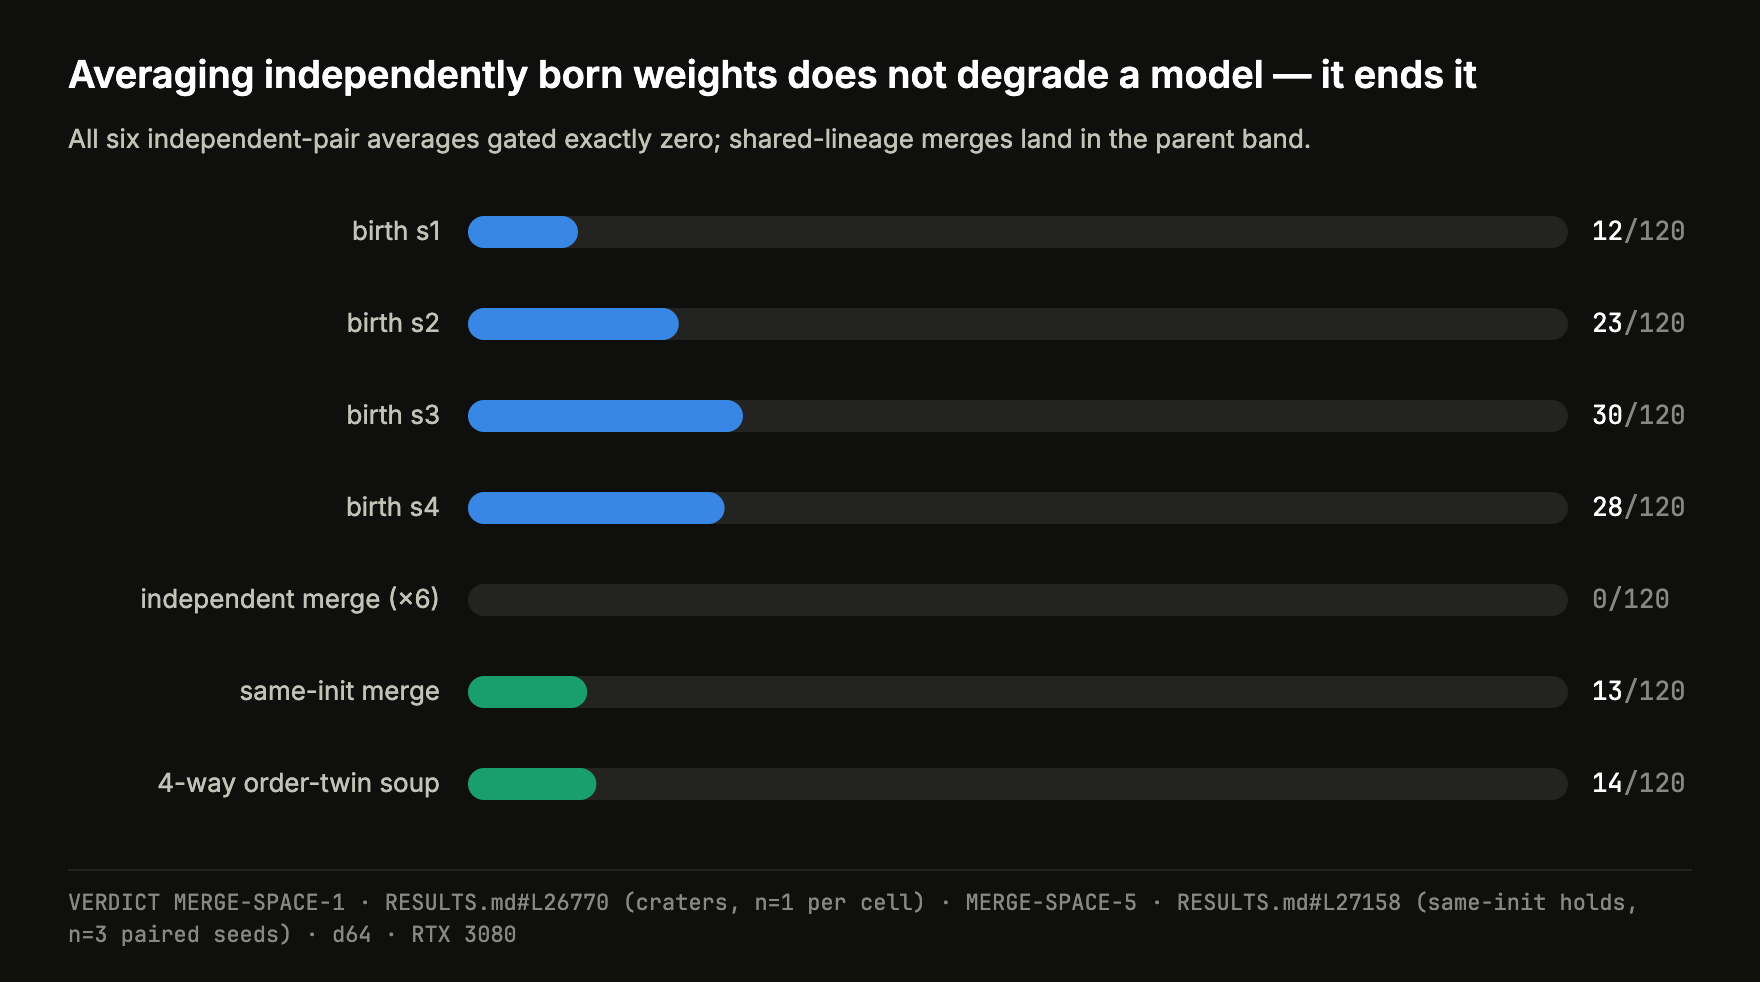
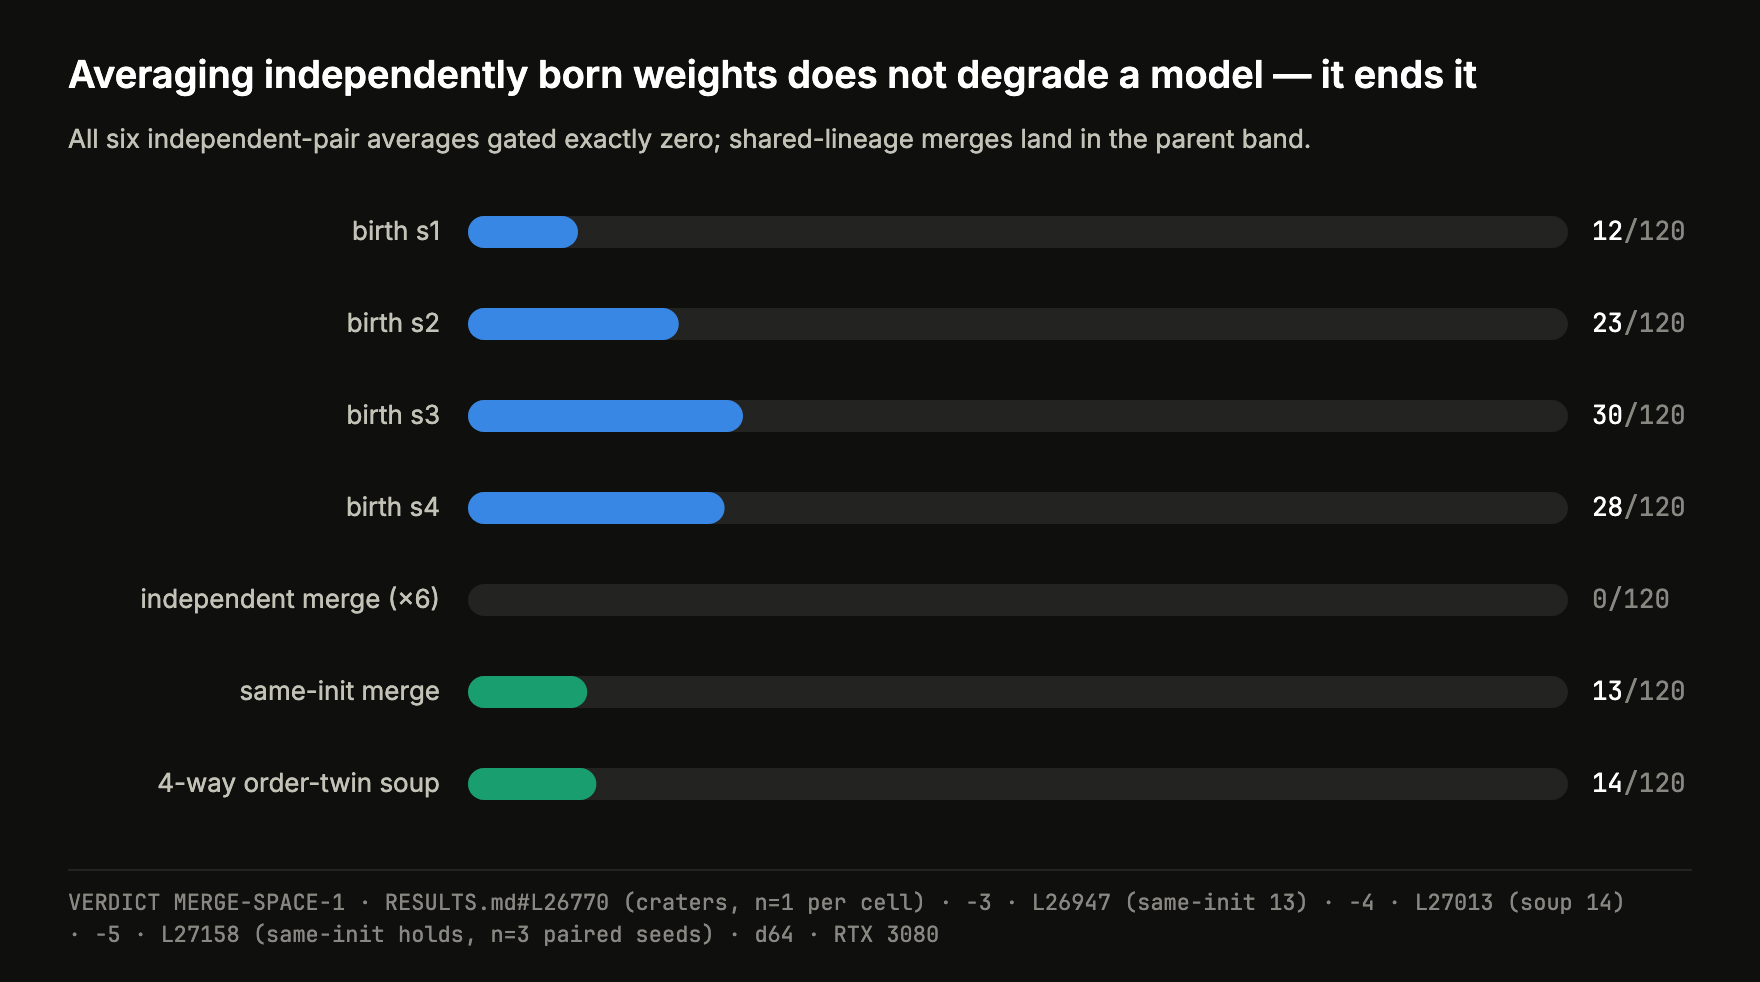
figures: fences carry index ids, the merge_space fence names MERGE-SPACE-3 and -4, the routing_crest fence states its rounding; two figures re-rendered, no value changes (rehabilitation 2B, commit 2)
Every figure in docs/figures.json gains fence_ids, the results-index
ids of the entries its fence cites; tests/test_docs_integrity.py now
reads fences as ledger links (each cited line must be the heading of
a listed id, each id must exist) so a ledger shift or a wrong citation
in a figure fails the docs suite the way a broken anchor does.

The merge_space fence, which named only MERGE-SPACE-1 and -5, now
also names -3 (L26947, the same-init merge at 13) and -4 (L27013, the
4-way soup at 14), the two entries that supply two of its seven
values. The routing_crest fence states that the full-model mean of
66.33 is drawn as 66. Both are footer text only: the four re-rendered
PNGs differ from the previous captures exclusively in the footer rows
(merge_space rows 891 to 945 of 982, routing_crest rows 739 to 761 of
798), measured pixel by pixel; the other eight SVG/PNG pairs are
byte-identical. No arm, point or series value changed.

Mutation drill, run by hand and restored: a one-digit edit to the
loss_floor d64 value failed test_figure_values (commit 3) and
gen_figures_web --check (loss_floor SVGs differ from a fresh render);
a wrong id in merge_space fence_ids failed the new docs test.
CODEMAP regenerated for llmopt/figures/spec.py (missed in commit 1).

Changed region(s): [[0.5625, 0.8859, 0.9062, 0.947], [0.0312, 0.947, 0.4062, 0.9776], [0.4688, 0.947, 0.5312, 0.9776]]

diff --git a/tests/test_docs_integrity.py b/tests/test_docs_integrity.py
@@ -174,3 +174,40 @@ if __name__ == "__main__":       # standalone report, no pytest needed
           f"(ratchet {MAX_UNCURATED})")
     for row in sorted(stale, key=lambda r: -r["line"])[:10]:
         print(f"  newest uncited: {row['type']:8s} {row['id']}")
+
+
+def test_figure_fences_are_ledger_links():
+    """Every published figure's fence is a citation: each RESULTS line
+    it names (``RESULTS.md#L<n>`` or a bare ``L<n>`` after the first)
+    must be the heading line of an entry whose id is listed in the
+    figure's ``fence_ids``, every listed id must exist in the index,
+    and a fence may not cite a line the ids do not cover. Line numbers
+    in fences are cached like link anchors; when the ledger moves,
+    scripts/anchor_guard.py does not touch figures.json, so this test
+    is what notices.
+    """
+    by_id = {json.loads(r)["id"]: json.loads(r)["line"] for r in INDEX.open()}
+    spec = json.loads((ROOT / "docs/figures.json").read_text())
+    problems = []
+    for name, fig in spec.items():
+        if name.startswith("_"):
+            continue
+        ids = fig.get("fence_ids")
+        if ids is None:
+            problems.append(f"{name}: no fence_ids")
+            continue
+        lines_of_ids = {}
+        for eid in ids:
+            if eid not in by_id:
+                problems.append(f"{name}: fence_ids names {eid}, not in the index")
+            else:
+                lines_of_ids[by_id[eid]] = eid
+        # `RESULTS.md#L<n>` or a bare `· L<n>` after the first; "L1-3"
+        # (a gate level range) is not a line citation
+        cited = {int(n) for n in re.findall(r"(?:#L|·\s+L)(\d+)\b", fig.get("fence", ""))}
+        for n in sorted(cited - set(lines_of_ids)):
+            problems.append(f"{name}: fence cites L{n} but no fence_ids entry "
+                            f"sits on that line (ids cover {sorted(lines_of_ids)})")
+        if "RESULTS.md#L" in fig.get("fence", "") and not ids:
+            problems.append(f"{name}: fence cites RESULTS but fence_ids is empty")
+    assert not problems, "figure fences v ledger:\n  " + "\n  ".join(problems)

diff --git a/docs/CODEMAP.md b/docs/CODEMAP.md
@@ -16,7 +16,7 @@ this also drives `library`; from lab tooling it drives
 comments or plain strings; `via` names the cited caller a file
 inherits its class from when no document names the file itself.
 
-Census: library 192, reproduce-pinned 9, results-cited 495, spec-cited 80, tool-referenced 5, UNCITED 124 (of 905; library rows that are also doc-cited: 187)
+Census: library 193, reproduce-pinned 9, results-cited 494, spec-cited 80, tool-referenced 5, UNCITED 124 (of 905; library rows that are also doc-cited: 188)
 
 ## scratch/
 
@@ -866,14 +866,14 @@ Census: library 192, reproduce-pinned 9, results-cited 495, spec-cited 80, tool-
 | gen | gen_codemap.py | library | RESULTS, specs, TOOLING | RESULTS×2, specs×28, TOOLING×13 | — | 7 | 1 | — |
 | gen | gen_dispatch_labels.py | results-cited | RESULTS | RESULTS×1 | — | — | 2 | — |
 | gen | gen_dispatch_labels_v2.py | results-cited | RESULTS | RESULTS×1 | — | — | — | — |
-| gen | gen_figures_web.py | results-cited | RESULTS, specs, TOOLING | RESULTS×1, specs×4, TOOLING×1 | — | — | — | — |
+| gen | gen_figures_web.py | library | RESULTS, specs, TOOLING | RESULTS×1, specs×4, TOOLING×3 | 1 | 2 | 1 | — |
 | gen | gen_frontier.py | results-cited | RESULTS | RESULTS×1 | — | — | — | — |
 | gen | gen_index.py | library | RESULTS, specs, TOOLING | RESULTS×1, specs×11, TOOLING×13 | — | 8 | — | — |
 | gen | gen_lake.py | library | RESULTS, specs | RESULTS×3, specs×1 | — | 1 | — | — |
 | gen | gen_magic_labels.py | results-cited | RESULTS, specs, TOOLING | RESULTS×3, specs×1, TOOLING×2 | — | — | — | — |
 | gen | gen_policy_labels.py | results-cited | RESULTS | RESULTS×1 | — | — | — | — |
 | gen | gen_proposer_data.py | results-cited | RESULTS, specs | RESULTS×1, specs×9 | — | — | 1 | — |
-| gen | gen_readme.py | library | RESULTS, specs, TOOLING | RESULTS×1, specs×25, TOOLING×5 | 1 | 4 | — | — |
+| gen | gen_readme.py | library | RESULTS, specs, TOOLING | RESULTS×1, specs×25, TOOLING×5 | 2 | 5 | 2 | — |
 | gen | gen_receipt_lock.py | library | RESULTS, specs, TOOLING | RESULTS×1, specs×4, TOOLING×9 | 1 | 10 | — | — |
 | gen | gen_regret_labels.py | results-cited | RESULTS | RESULTS×1 | — | — | — | — |
 | gen | gen_results_index.py | library | RESULTS, specs, TOOLING | RESULTS×8, specs×20, TOOLING×9 | 1 | 8 | 2 | — |
